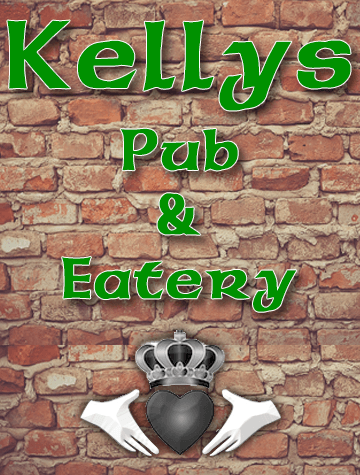
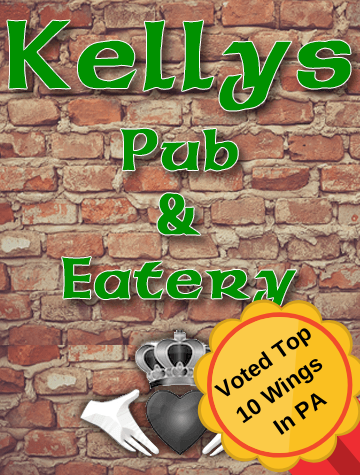
Added new photos

Changed region(s): [[0.5194, 0.6189, 1.0, 1.0]]

diff --git a/index.html b/index.html
@@ -15,7 +15,8 @@ layout: default
 
     <div class="container-fluid">
 
-        <div class="col-sm-6 col-sm-offset-6 col-md-4 col-md-offset-8 " >
+        <div class="col-sm-6 col-sm-offset-6 col-md-4 col-md-offset-8 ">
+            <a target="_blank" href="https://www.onlyinyourstate.com/pennsylvania/best-wings-pa/" style="position: absolute; width: 150px; height: 160px; bottom:0px; right: 15px; border-radius: 30%; cursor: pointer;"></a>
             <img src="{{ site.baseurl }}/img/welcome.png" alt="Kelly's Pub & Eatery" >
         </div>
 
@@ -115,7 +116,7 @@ layout: default
 
     {% for images in site.data.gallery %}
         <div class="gallery-item expandable-box">
-            <div class="expandable-box-top">
+            <div class="">
                 <img src="{{ site.baseurl }}/img/gallery/{{ images.image_thumb }}" >
             </div>
        </div>
@@ -125,5 +126,6 @@ layout: default
 <!-- End Gallery -->
 
 <!-- Start Map -->
-<div id="location" class="map" data-zoom="{{ site.map.zoom }}" data-address="{{ site.map.address }}" data-address-details="<img src='{{ site.map.address_details }}'>"></div>
+<!-- <div id="location" class="map" data-zoom="{{ site.map.zoom }}" data-address="{{ site.map.address }}" data-address-details="<img src='{{ site.map.address_details }}'>"></div> -->
+<iframe id="location" style=" width:100%"src="https://www.google.com/maps/embed?pb=!1m18!1m12!1m3!1d2993.2563883329067!2d-75.68067928419211!3d41.390238079263995!2m3!1f0!2f0!3f0!3m2!1i1024!2i768!4f13.1!3m3!1m2!1s0x89c4df1a7303a1db%3A0xca6a3cffda8789d1!2s1802+Cedar+Ave%2C+Scranton%2C+PA+18505!5e0!3m2!1sen!2sus!4v1555361534577!5m2!1sen!2sus" width="600" height="450" frameborder="0" style="border:0" allowfullscreen></iframe>
 <!-- End Map -->
